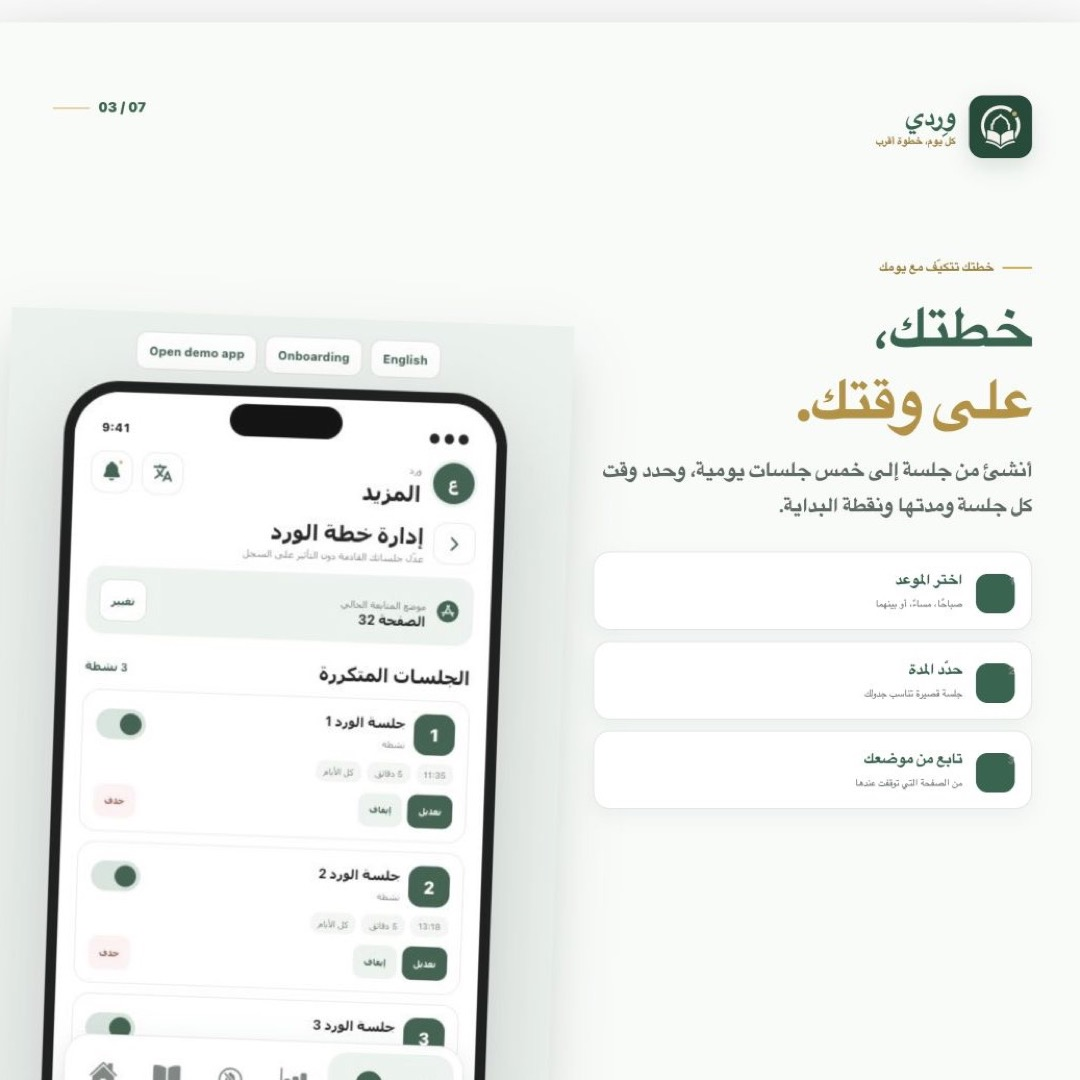
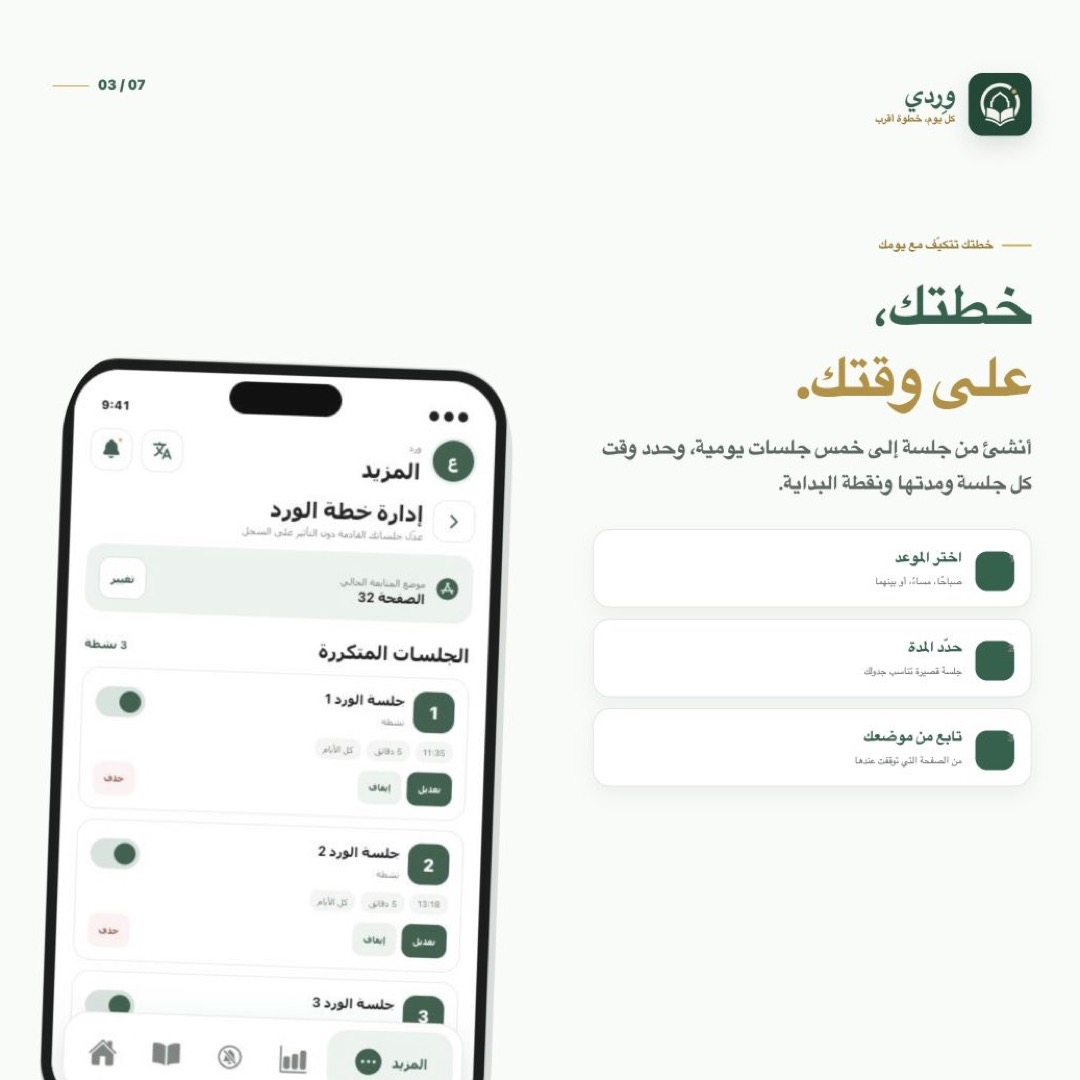
Remove simulator backgrounds from carousel screens

diff --git a/docs/carousel/index.html b/docs/carousel/index.html
@@ -35,6 +35,9 @@
     .pill{display:flex;align-items:center;gap:.65cqw;min-height:3.5cqw;padding:0 1.25cqw;border:1px solid #dbe6e0;border-radius:99px;background:#fff;color:#175c43;font-size:1cqw;font-weight:850;box-shadow:0 .65cqw 1.5cqw rgba(28,73,53,.07)}
     .pill:before{content:"";width:.62cqw;height:.62cqw;border-radius:50%;background:#d5aa36}
     .phone-shot{display:block;object-fit:contain;filter:drop-shadow(0 2.5cqw 2.6cqw rgba(18,52,37,.18))}
+    .device-legacy{clip-path:inset(6.3% 9.7% .8% 9.7% round 10%)}
+    .device-captured{clip-path:inset(7.9% 9.9% 3.8% 9.9% round 10%)}
+    .device-plan{clip-path:inset(7.9% 9.9% .8% 9.9% round 10%)}
     .note{display:flex;align-items:center;gap:.75cqw;color:#52625a;font-size:1.05cqw;font-weight:800}
     .note:before{content:"";width:.8cqw;height:.8cqw;border-radius:50%;border:.25cqw solid #175c43}
     .line-art{position:absolute;border:1px solid rgba(23,92,67,.11);border-radius:50%;pointer-events:none}
@@ -141,45 +144,45 @@
         <div class="brand"><img src="../../assets/wird-app-icon.png" alt=""><div class="brand-copy"><b>وِردي</b><span>كل يوم، خطوة أقرب</span></div></div><div class="counter">01 / 07</div>
         <div class="line-art one"></div><div class="line-art two"></div>
         <div class="cover-copy"><div class="eyebrow">رفيقك اليومي مع القرآن</div><h1><span class="green">وردك القرآني،</span><br><span class="gold">خطوة هادئة كل يوم.</span></h1><p class="lead">جلسات مرنة، مصحف محلي، وإحصاءات واضحة تساعدك على بناء عادة قراءة تستمر.</p><div class="pill-row"><span class="pill">جلسات مخصصة</span><span class="pill">قراءة بلا إنترنت</span><span class="pill">عربي وEnglish</span></div></div>
-        <img class="phone-shot" src="../screenshots/home-dashboard.jpg" alt="شاشة ورد اليوم">
+        <img class="phone-shot device-legacy" src="../screenshots/home-dashboard.jpg" alt="شاشة ورد اليوم">
         <div class="open-source">مشروع مفتوح المصدر · بياناتك على جهازك</div>
       </section>
 
       <section class="slide daily" data-title="ورد اليوم">
         <div class="brand"><img src="../../assets/wird-app-icon.png" alt=""><div class="brand-copy"><b>وِردي</b><span>كل يوم، خطوة أقرب</span></div></div><div class="counter">02 / 07</div>
         <div class="daily-copy"><div class="eyebrow">واجهة تعرف ما تحتاجه الآن</div><h2>ابدأ يومك من<br><span class="gold">جلسة واضحة.</span></h2><p class="lead">الموعد القادم، موضع القراءة، تقدّم الختمة، وهدف اليوم في نظرة واحدة.</p><div class="daily-grid"><div><b>جلسة قادمة</b><span>موعد ومدة محددان</span></div><div><b>تقدّم دائري</b><span>النسبة والجزء الحالي</span></div><div><b>نشاط أسبوعي</b><span>دقائق كل يوم</span></div><div><b>متابعة فورية</b><span>من آخر صفحة</span></div></div></div>
-        <img class="phone-shot" src="../screenshots/home-dashboard.jpg" alt="لوحة ورد اليوم"><div class="gold-line"></div>
+        <img class="phone-shot device-legacy" src="../screenshots/home-dashboard.jpg" alt="لوحة ورد اليوم"><div class="gold-line"></div>
       </section>
 
       <section class="slide plan" data-title="خطة مرنة">
         <div class="brand"><img src="../../assets/wird-app-icon.png" alt=""><div class="brand-copy"><b>وِردي</b><span>كل يوم، خطوة أقرب</span></div></div><div class="counter">03 / 07</div>
         <div class="plan-copy"><div class="eyebrow">خطتك تتكيّف مع يومك</div><h2><span class="green">خطتك،</span><br><span class="gold">على وقتك.</span></h2><p class="lead">أنشئ من جلسة إلى خمس جلسات يومية، وحدد وقت كل جلسة ومدتها ونقطة البداية.</p><div class="plan-stack"><div class="feature-card"><span class="step-number">1</span><div><strong>اختر الموعد</strong><span>صباحًا، مساءً، أو بينهما</span></div></div><div class="feature-card"><span class="step-number">2</span><div><strong>حدّد المدة</strong><span>جلسة قصيرة تناسب جدولك</span></div></div><div class="feature-card"><span class="step-number">3</span><div><strong>تابع من موضعك</strong><span>من الصفحة التي توقفت عندها</span></div></div></div></div>
-        <img class="phone-shot" src="../screenshots/plan.jpg" alt="إدارة خطة الورد">
+        <img class="phone-shot device-plan" src="../screenshots/plan.jpg" alt="إدارة خطة الورد">
       </section>
 
       <section class="slide reader" data-title="المصحف المحلي">
         <div class="brand"><img src="../../assets/wird-app-icon.png" alt=""><div class="brand-copy"><b>وِردي</b><span>كل يوم، خطوة أقرب</span></div></div><div class="counter">04 / 07</div>
         <div class="reader-copy"><div class="eyebrow">قراءة مركّزة بلا تشتيت</div><h2>المصحف معك،<br><span class="gold">حتى دون إنترنت.</span></h2><p class="lead">انتقل بين الصفحات، احفظ العلامات، وافتح التفسير من نفس مصادر نسخة سطح المكتب.</p><div class="reader-tools"><div><b>6,236 آية</b><span>نص قرآني محلي</span></div><div><b>5 تفاسير</b><span>مصادر عربية مضمّنة</span></div><div><b>علامات</b><span>احفظ موضعك بسهولة</span></div><div><b>انتقال سريع</b><span>إلى الصفحة المطلوبة</span></div></div></div>
-        <img class="phone-shot" src="../screenshots/reader.jpg" alt="قارئ القرآن الكريم">
+        <img class="phone-shot device-captured" src="../screenshots/reader.jpg" alt="قارئ القرآن الكريم">
       </section>
 
       <section class="slide insights" data-title="إحصاءات القراءة">
         <div class="brand"><img src="../../assets/wird-app-icon.png" alt=""><div class="brand-copy"><b>وِردي</b><span>كل يوم، خطوة أقرب</span></div></div><div class="counter">05 / 07</div>
         <div class="insights-copy"><div class="eyebrow">تقدّم مفهوم ومحفّز</div><h2><span class="green">تقدّم تراه.</span><br><span class="gold">عادة تبنيها.</span></h2><p class="lead">تابع وقت القراءة والصفحات والأيام النشطة، واستكشف دقائق كل يوم من الرسم التفاعلي.</p><div class="stat-row"><div class="stat"><b>42</b><span>صفحة</span></div><div class="stat"><b>18</b><span>دقيقة</span></div><div class="stat"><b>7</b><span>أيام قراءة</span></div></div></div>
-        <img class="phone-shot" src="../screenshots/statistics.jpg" alt="إحصاءات القراءة">
+        <img class="phone-shot device-captured" src="../screenshots/statistics.jpg" alt="إحصاءات القراءة">
       </section>
 
       <section class="slide together" data-title="الختمات الجماعية">
         <div class="brand"><img src="../../assets/wird-app-icon.png" alt=""><div class="brand-copy"><b>وِردي</b><span>كل يوم، خطوة أقرب</span></div></div><div class="counter">06 / 07</div>
         <div class="together-head"><div class="eyebrow">مع من تحب</div><h2><span class="green">اختموا القرآن</span> <span class="gold">معًا.</span></h2><p class="lead">أنشئ ختمة، شارك رمز الدعوة، وتابع إنجاز الأجزاء الثلاثين مع أفراد العائلة والأصدقاء.</p></div>
-        <div class="phone-pair"><img class="phone-shot" src="../screenshots/khatamat-groups.jpg" alt="مجموعات الختمات"><img class="phone-shot" src="../screenshots/khatma-detail.jpg" alt="تقدم الختمة الجماعية"></div>
+        <div class="phone-pair"><img class="phone-shot device-legacy" src="../screenshots/khatamat-groups.jpg" alt="مجموعات الختمات"><img class="phone-shot device-legacy" src="../screenshots/khatma-detail.jpg" alt="تقدم الختمة الجماعية"></div>
         <div class="tag">دعوات · أعضاء · 30 جزءًا · تقدّم جماعي</div>
       </section>
 
       <section class="slide privacy" data-title="الخصوصية والمظهر">
         <div class="brand"><img src="../../assets/wird-app-icon.png" alt=""><div class="brand-copy"><b>وِردي</b><span>كل يوم، خطوة أقرب</span></div></div><div class="counter">07 / 07</div>
         <div class="privacy-copy"><div class="eyebrow">مصمم لراحتك وخصوصيتك</div><h2><span class="green">تجربة تحترمك.</span><br><span class="gold">وبيانات تبقى لك.</span></h2><p class="lead">واجهة عربية وإنجليزية، مظهر يتبع نظام جهازك، وتخزين محلي دون حساب سحابي إلزامي.</p><div class="privacy-list"><div>فاتح، داكن، أو تلقائي</div><div>SQLite وSecureStore على الجهاز</div><div>نسخ احتياطي واستعادة باختيارك</div><div>لا إعلانات ولا تحليلات ولا تتبّع</div></div></div>
-        <img class="phone-shot phone-light" src="../screenshots/settings.jpg" alt="إعدادات المظهر"><img class="phone-shot phone-dark" src="../screenshots/home-dark.jpg" alt="المظهر الداكن">
+        <img class="phone-shot device-captured phone-light" src="../screenshots/settings.jpg" alt="إعدادات المظهر"><img class="phone-shot device-captured phone-dark" src="../screenshots/home-dark.jpg" alt="المظهر الداكن">
         <div class="oss">مبني على مشروع Wird المفتوح المصدر · MIT</div>
       </section>
     </main>
